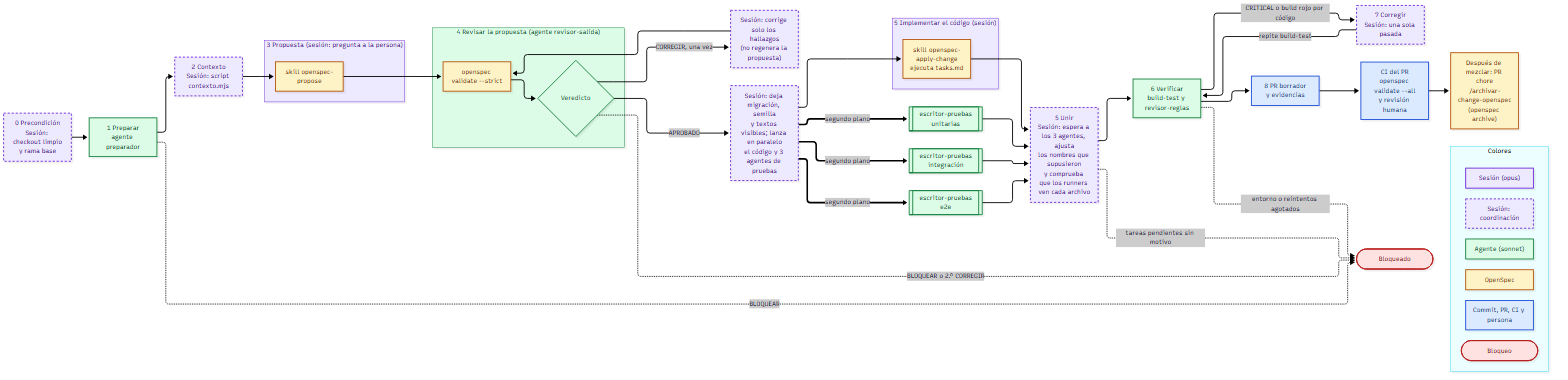
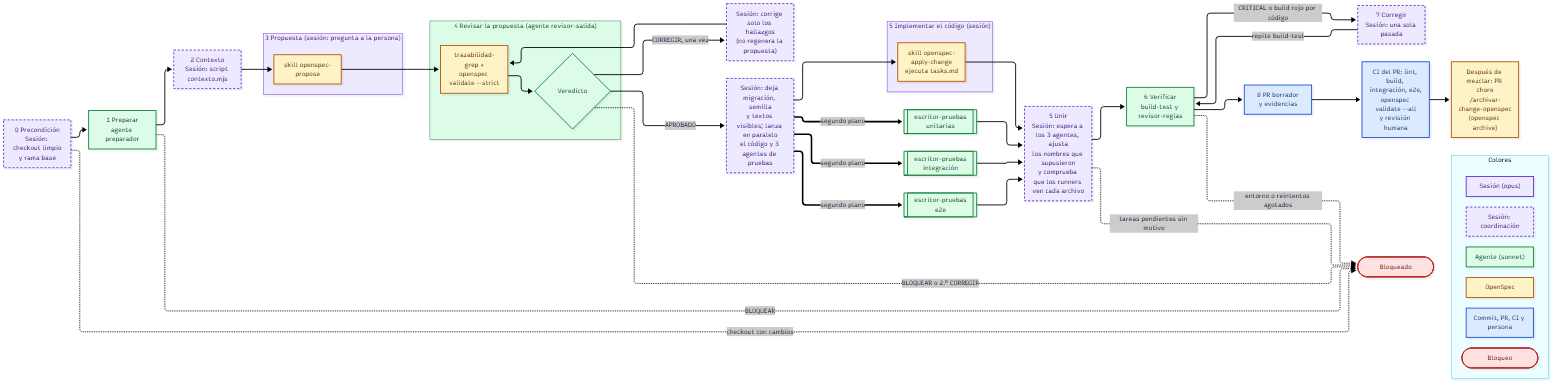
docs: ajusta el diagrama del flujo del orquestador (salida de bloqueo en la precondición, trazabilidad-grep en el paso 4 y controles completos del CI)

Changed region(s): [[0.0, 0.0, 1.0, 0.9842], [0.0938, 0.7816, 0.875, 0.8105], [0.0625, 0.8395, 0.8438, 0.8684]]

diff --git a/docs/flujo-orquestador.md b/docs/flujo-orquestador.md
@@ -56,6 +56,7 @@ En el paso 5 la sesión deja primero escritas la migración y la semilla y compl
 flowchart LR
     PRE["0 Precondición<br/>Sesión: checkout limpio<br/>y rama base"] --> S1["1 Preparar<br/>agente preparador"]
     S1 --> S2["2 Contexto<br/>Sesión: script contexto.mjs"]
+    PRE -.->|checkout con cambios| BLOQ
     S1 -.->|BLOQUEAR| BLOQ
 
     subgraph S3G["3 Propuesta (sesión: pregunta a la persona)"]
@@ -64,7 +65,7 @@ flowchart LR
     S2 --> OP
 
     subgraph REV["4 Revisar la propuesta (agente revisor-salida)"]
-        OV["openspec validate --strict"] --> VER{"Veredicto"}
+        OV["trazabilidad-grep +<br/>openspec validate --strict"] --> VER{"Veredicto"}
     end
     OP --> OV
     VER -->|CORREGIR, una vez| FIX["Sesión: corrige solo los hallazgos<br/>(no regenera la propuesta)"]
@@ -88,7 +89,7 @@ flowchart LR
     V6 -->|"CRITICAL o build rojo por código"| S7["7 Corregir<br/>Sesión: una sola pasada"]
     S7 -->|"repite build-test"| V6
     V6 --> S8["8 PR borrador<br/>y evidencias"]
-    S8 --> CI["CI del PR<br/>openspec validate --all<br/>y revisión humana"]
+    S8 --> CI["CI del PR: lint, build, integración, e2e,<br/>openspec validate --all<br/>y revisión humana"]
     CI --> ARC["Después de mezclar: PR chore<br/>/archivar-change-openspec<br/>(openspec archive)"]
 
     VER -.->|"BLOQUEAR o 2.º CORREGIR"| BLOQ(["Bloqueado"])
